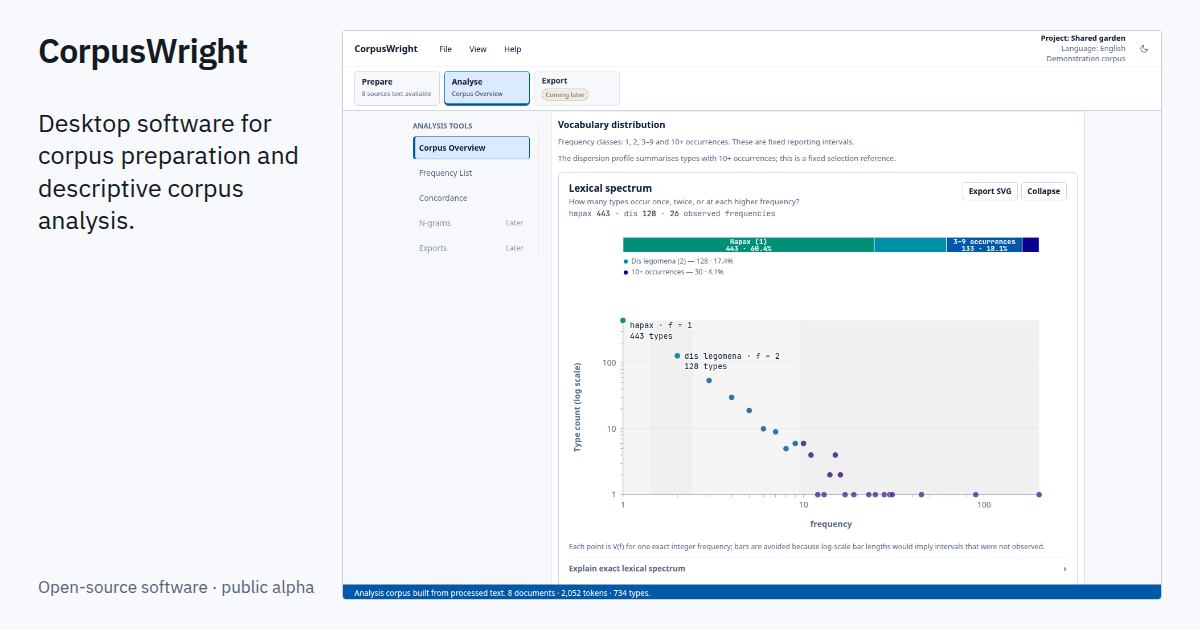
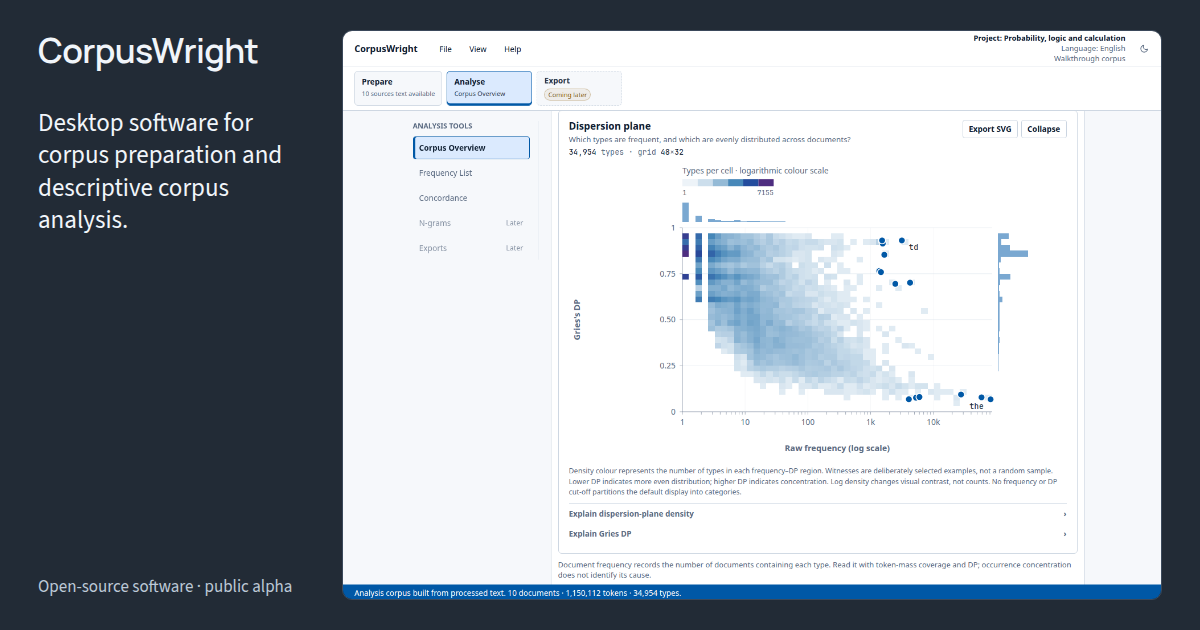
DOC: Regenerate the social preview from the Dispersion plane

diff --git a/docs/index.html b/docs/index.html
@@ -16,12 +16,12 @@
   <meta property="og:image:width" content="1200">
   <meta property="og:image:height" content="630">
   <meta property="og:image:type" content="image/png">
-  <meta property="og:image:alt" content="CorpusWright desktop application with its navigation, Analyse tools and Corpus Overview from synthetic garden texts.">
+  <meta property="og:image:alt" content="CorpusWright desktop application showing the Dispersion plane for the walkthrough corpus.">
   <meta name="twitter:card" content="summary_large_image">
   <meta name="twitter:title" content="CorpusWright · desktop corpus analysis">
   <meta name="twitter:description" content="Desktop software for corpus preparation and descriptive corpus analysis.">
   <meta name="twitter:image" content="https://jhlopesalves.github.io/CorpusWright/assets/social-preview.png">
-  <meta name="twitter:image:alt" content="CorpusWright desktop application with its navigation, Analyse tools and Corpus Overview from synthetic garden texts.">
+  <meta name="twitter:image:alt" content="CorpusWright desktop application showing the Dispersion plane for the walkthrough corpus.">
   <link rel="stylesheet" href="assets/site.css">
   <link rel="stylesheet" href="assets/walkthrough.css">
   <link rel="icon" href="assets/icon-32.png">

diff --git a/docs/concepts/overview.html b/docs/concepts/overview.html
@@ -16,12 +16,12 @@
   <meta property="og:image:width" content="1200">
   <meta property="og:image:height" content="630">
   <meta property="og:image:type" content="image/png">
-  <meta property="og:image:alt" content="CorpusWright desktop application with its navigation, Analyse tools and Corpus Overview from synthetic garden texts.">
+  <meta property="og:image:alt" content="CorpusWright desktop application showing the Dispersion plane for the walkthrough corpus.">
   <meta name="twitter:card" content="summary_large_image">
   <meta name="twitter:title" content="Methods &amp; measures · CorpusWright">
   <meta name="twitter:description" content="Definitions and interpretation of CorpusWright's counts, dispersion, collocation and vocabulary measures.">
   <meta name="twitter:image" content="https://jhlopesalves.github.io/CorpusWright/assets/social-preview.png">
-  <meta name="twitter:image:alt" content="CorpusWright desktop application with its navigation, Analyse tools and Corpus Overview from synthetic garden texts.">
+  <meta name="twitter:image:alt" content="CorpusWright desktop application showing the Dispersion plane for the walkthrough corpus.">
   <link rel="stylesheet" href="../assets/site.css">
   <link rel="icon" href="../assets/icon-32.png">
   <script>

diff --git a/docs/roadmap.html b/docs/roadmap.html
@@ -15,12 +15,12 @@
   <meta property="og:image:width" content="1200">
   <meta property="og:image:height" content="630">
   <meta property="og:image:type" content="image/png">
-  <meta property="og:image:alt" content="CorpusWright desktop application with its navigation, Analyse tools and Corpus Overview from synthetic garden texts.">
+  <meta property="og:image:alt" content="CorpusWright desktop application showing the Dispersion plane for the walkthrough corpus.">
   <meta name="twitter:card" content="summary_large_image">
   <meta name="twitter:title" content="Earlier planning notes · CorpusWright">
   <meta name="twitter:description" content="Earlier planning notes retained for compatibility; current project status is on About and the release pages.">
   <meta name="twitter:image" content="https://jhlopesalves.github.io/CorpusWright/assets/social-preview.png">
-  <meta name="twitter:image:alt" content="CorpusWright desktop application with its navigation, Analyse tools and Corpus Overview from synthetic garden texts.">
+  <meta name="twitter:image:alt" content="CorpusWright desktop application showing the Dispersion plane for the walkthrough corpus.">
   <link rel="stylesheet" href="assets/site.css">
   <link rel="icon" href="assets/icon-32.png">
   <script>

diff --git a/docs/technical-docs.html b/docs/technical-docs.html
@@ -15,12 +15,12 @@
   <meta property="og:image:width" content="1200">
   <meta property="og:image:height" content="630">
   <meta property="og:image:type" content="image/png">
-  <meta property="og:image:alt" content="CorpusWright desktop application with its navigation, Analyse tools and Corpus Overview from synthetic garden texts.">
+  <meta property="og:image:alt" content="CorpusWright desktop application showing the Dispersion plane for the walkthrough corpus.">
   <meta name="twitter:card" content="summary_large_image">
   <meta name="twitter:title" content="Source, release and licence records · CorpusWright">
   <meta name="twitter:description" content="Repository records for CorpusWright source, releases, licence and citation metadata.">
   <meta name="twitter:image" content="https://jhlopesalves.github.io/CorpusWright/assets/social-preview.png">
-  <meta name="twitter:image:alt" content="CorpusWright desktop application with its navigation, Analyse tools and Corpus Overview from synthetic garden texts.">
+  <meta name="twitter:image:alt" content="CorpusWright desktop application showing the Dispersion plane for the walkthrough corpus.">
   <link rel="stylesheet" href="assets/site.css">
   <link rel="icon" href="assets/icon-32.png">
   <script>

diff --git a/docs/quick-start.html b/docs/quick-start.html
@@ -14,12 +14,12 @@
   <meta property="og:image:width" content="1200">
   <meta property="og:image:height" content="630">
   <meta property="og:image:type" content="image/png">
-  <meta property="og:image:alt" content="CorpusWright desktop application with its navigation, Analyse tools and Corpus Overview from synthetic garden texts.">
+  <meta property="og:image:alt" content="CorpusWright desktop application showing the Dispersion plane for the walkthrough corpus.">
   <meta name="twitter:card" content="summary_large_image">
   <meta name="twitter:title" content="Guide · CorpusWright">
   <meta name="twitter:description" content="Install CorpusWright and follow the preparation, analysis and concordance workflow.">
   <meta name="twitter:image" content="https://jhlopesalves.github.io/CorpusWright/assets/social-preview.png">
-  <meta name="twitter:image:alt" content="CorpusWright desktop application with its navigation, Analyse tools and Corpus Overview from synthetic garden texts.">
+  <meta name="twitter:image:alt" content="CorpusWright desktop application showing the Dispersion plane for the walkthrough corpus.">
   <link rel="stylesheet" href="assets/site.css">
   <link rel="icon" href="assets/icon-32.png">
   <script>

diff --git a/docs/404.html b/docs/404.html
@@ -15,12 +15,12 @@
   <meta property="og:image:width" content="1200">
   <meta property="og:image:height" content="630">
   <meta property="og:image:type" content="image/png">
-  <meta property="og:image:alt" content="CorpusWright desktop application with its navigation, Analyse tools and Corpus Overview from synthetic garden texts.">
+  <meta property="og:image:alt" content="CorpusWright desktop application showing the Dispersion plane for the walkthrough corpus.">
   <meta name="twitter:card" content="summary_large_image">
   <meta name="twitter:title" content="Page not found · CorpusWright">
   <meta name="twitter:description" content="Page not found. Continue to the CorpusWright homepage, Guide or Methods.">
   <meta name="twitter:image" content="https://jhlopesalves.github.io/CorpusWright/assets/social-preview.png">
-  <meta name="twitter:image:alt" content="CorpusWright desktop application with its navigation, Analyse tools and Corpus Overview from synthetic garden texts.">
+  <meta name="twitter:image:alt" content="CorpusWright desktop application showing the Dispersion plane for the walkthrough corpus.">
   <link rel="stylesheet" href="assets/site.css">
   <link rel="icon" href="assets/icon-32.png">
   <script>

diff --git a/docs/citation.html b/docs/citation.html
@@ -14,12 +14,12 @@
   <meta property="og:image:width" content="1200">
   <meta property="og:image:height" content="630">
   <meta property="og:image:type" content="image/png">
-  <meta property="og:image:alt" content="CorpusWright desktop application with its navigation, Analyse tools and Corpus Overview from synthetic garden texts.">
+  <meta property="og:image:alt" content="CorpusWright desktop application showing the Dispersion plane for the walkthrough corpus.">
   <meta name="twitter:card" content="summary_large_image">
   <meta name="twitter:title" content="Citation · CorpusWright">
   <meta name="twitter:description" content="Citation guidelines for the CorpusWright corpus linguistics software.">
   <meta name="twitter:image" content="https://jhlopesalves.github.io/CorpusWright/assets/social-preview.png">
-  <meta name="twitter:image:alt" content="CorpusWright desktop application with its navigation, Analyse tools and Corpus Overview from synthetic garden texts.">
+  <meta name="twitter:image:alt" content="CorpusWright desktop application showing the Dispersion plane for the walkthrough corpus.">
   <link rel="stylesheet" href="assets/site.css">
   <link rel="icon" href="assets/icon-32.png">
   <script>

diff --git a/docs/about.html b/docs/about.html
@@ -15,12 +15,12 @@
   <meta property="og:image:width" content="1200">
   <meta property="og:image:height" content="630">
   <meta property="og:image:type" content="image/png">
-  <meta property="og:image:alt" content="CorpusWright desktop application with its navigation, Analyse tools and Corpus Overview from synthetic garden texts.">
+  <meta property="og:image:alt" content="CorpusWright desktop application showing the Dispersion plane for the walkthrough corpus.">
   <meta name="twitter:card" content="summary_large_image">
   <meta name="twitter:title" content="About · CorpusWright">
   <meta name="twitter:description" content="About CorpusWright: where the project stands, and who maintains it.">
   <meta name="twitter:image" content="https://jhlopesalves.github.io/CorpusWright/assets/social-preview.png">
-  <meta name="twitter:image:alt" content="CorpusWright desktop application with its navigation, Analyse tools and Corpus Overview from synthetic garden texts.">
+  <meta name="twitter:image:alt" content="CorpusWright desktop application showing the Dispersion plane for the walkthrough corpus.">
   <link rel="stylesheet" href="assets/site.css">
   <link rel="icon" href="assets/icon-32.png">
   <script>
